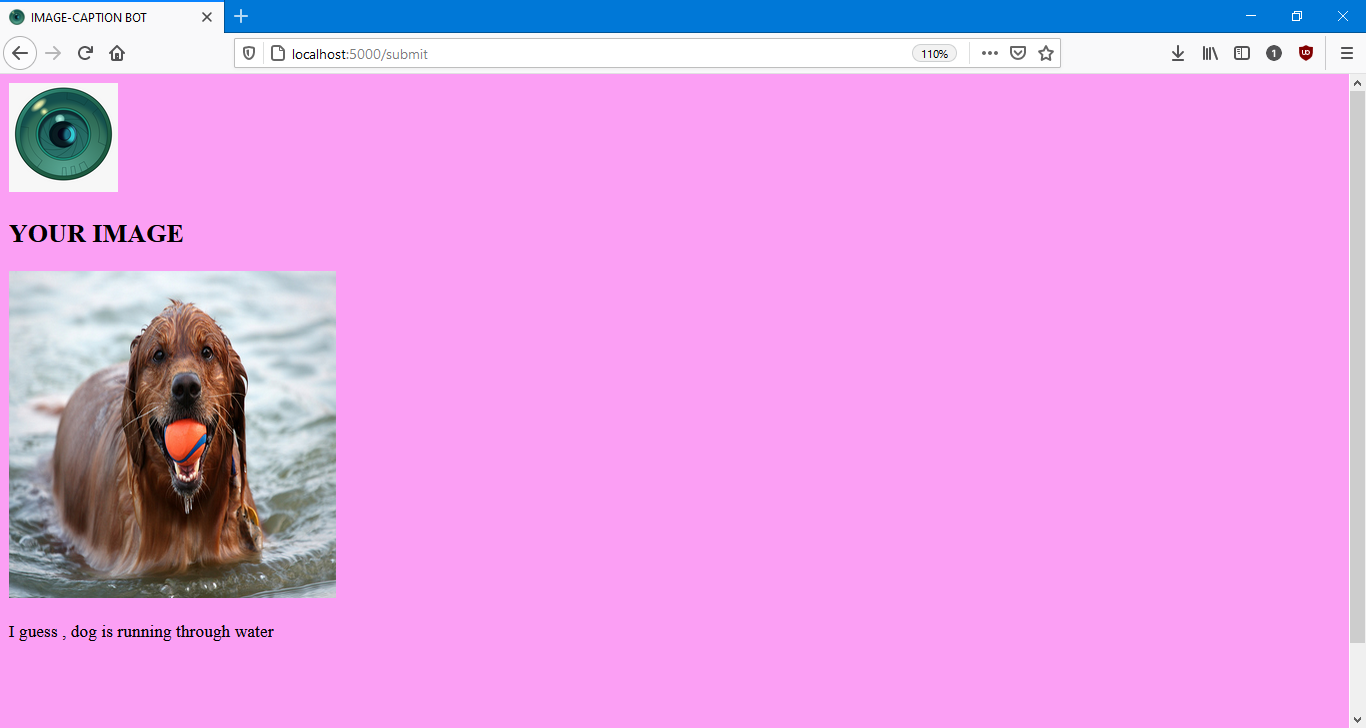
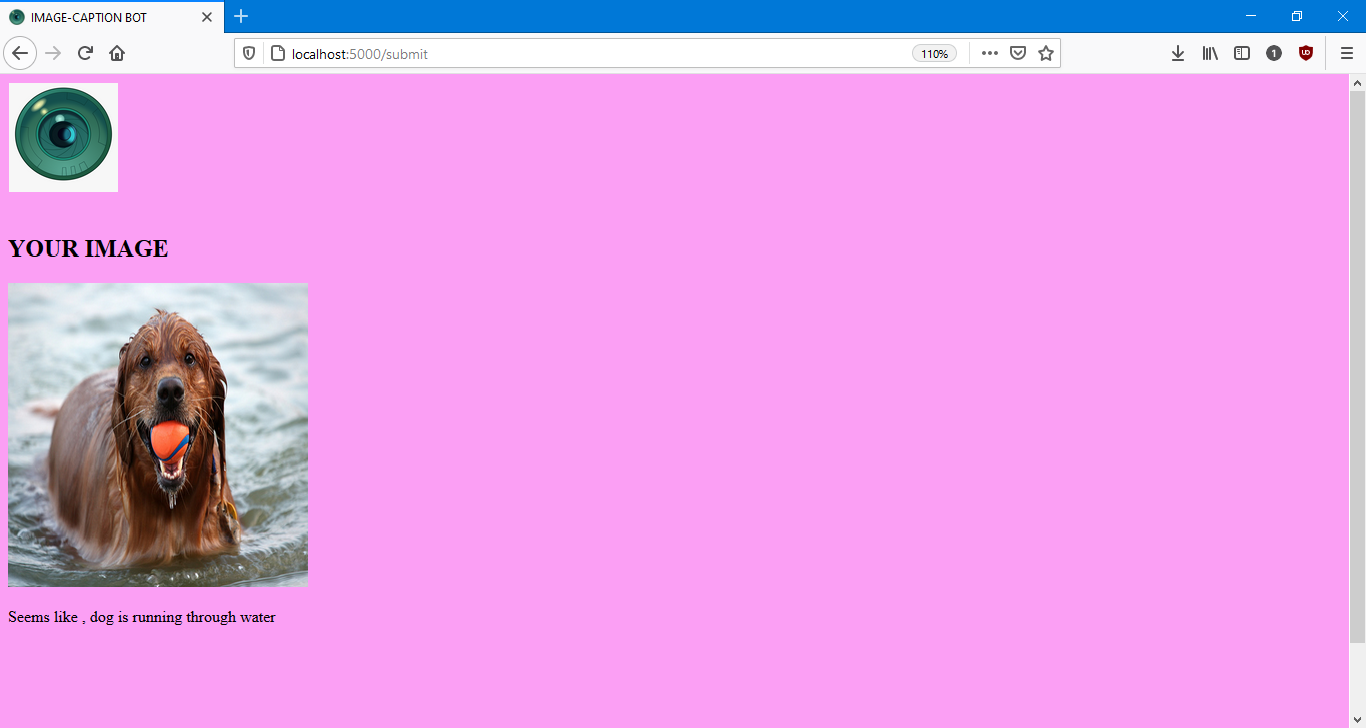
new commit

Changed region(s): [[0.0, 0.3022, 0.246, 0.8764]]

diff --git a/app.py b/app.py
@@ -16,7 +16,7 @@ def req():
 	if request.method=="POST":
 		f=request.files['pic']
 		f.save('./static/'+f.filename)
-		caption='I guess , '+gen_caption('./static/'+f.filename)
+		caption='Seems like, '+gen_caption('./static/'+f.filename)
 		return render_template('submit.html',pic=f.filename,caption=caption)
 
 if __name__=='__main__':
